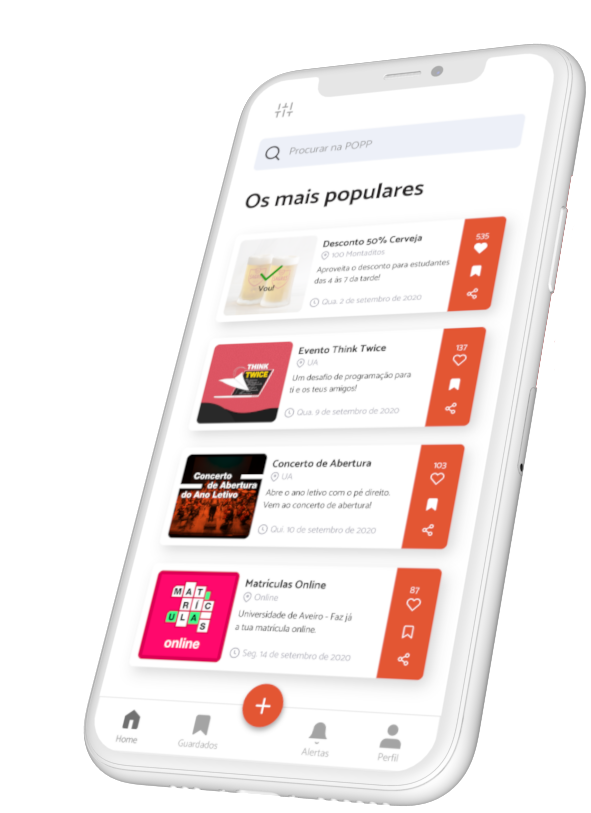
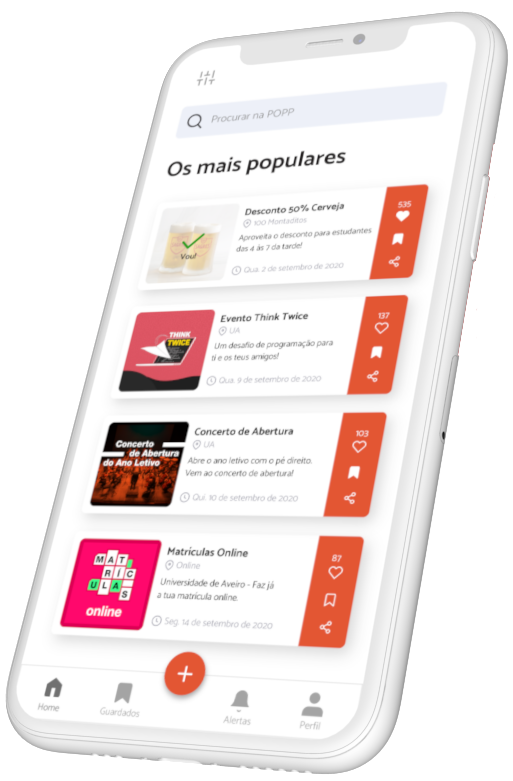
:airplane: Mobile CSS Progress
Thinking about using a CSS Framework

diff --git a/css/mobile.css b/css/mobile.css
@@ -2,7 +2,7 @@ html,
 body {
   font-family: "Catamaran", sans-serif;
   margin: 0;
-  height: 100%;
+  height: 100vh;
   overflow: hidden;
 }
 
@@ -10,7 +10,7 @@ body {
   display: flex;
   flex-direction: column;
   min-height: 100vh;
-  padding: 8% 10% 0 10%;
+  padding: 3vh 5vh 0 5vh;
   background-image: linear-gradient(
     45deg,
     rgba(232, 18, 32, 0.92),
@@ -22,29 +22,29 @@ body {
 
 .top-nav {
   text-align: center;
-  padding-bottom: 8%;
+  padding-bottom: 2vh;
 }
 
 .logo {
-  width: 130px;
+  width: 128px;
 }
 
 .landing > .intro {
-  line-height: 5rem;
+  line-height: 4vh;
   font-size: 4rem;
   font-weight: bold;
 }
 
 .display {
-  padding-left: 5%;
+  justify-content: center;
+  text-align: center;
 }
 
 .display > .phone-mock {
-  width: 30vh;
+  width: 28vh;
 }
 
 .form-subscribe {
-  margin-top: 2%;
   text-align: center;
 }
 
@@ -116,4 +116,9 @@ body {
   width: 60%;
   margin: 3% auto 0 auto;
   padding: 2.5%;
+  transition: transform 1s;
+}
+
+.form-subscribe > .btn-subscribe:hover {
+  transform: translateY(-2px);
 }
